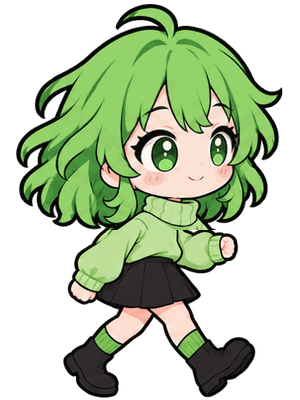
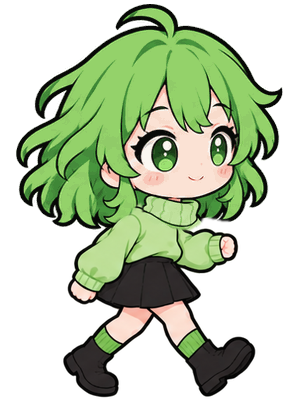
Soften pilot seams and add visible motion

diff --git a/src/renderer/chibi/pilot/idle-rig.js b/src/renderer/chibi/pilot/idle-rig.js
@@ -3,19 +3,26 @@
 (() => {
   const W = 239, H = 400;
   const head = [[0,0],[239,0],[239,212],[157,212],[150,190],[143,184],[96,184],[89,190],[81,212],[0,212]];
-  const leftTip = [[0,158],[58,158],[64,184],[76,212],[0,212]];
-  const rightTip = [[181,158],[239,158],[239,212],[163,212],[175,184]];
+  // Harakatdan kattaroq overlap: yuqori/ichki ildizda ikkala qatlam ham qoplab turadi.
+  const leftTip = [[-8,146],[64,146],[72,184],[84,218],[-8,218]];
+  const rightTip = [[175,146],[247,146],[247,218],[155,218],[167,184]];
+  const leftHole = [[-8,177],[46,177],[53,190],[64,218],[-8,218]];
+  const rightHole = [[193,177],[247,177],[247,218],[175,218],[186,190]];
   function polygon(ctx, points) {
     ctx.moveTo(...points[0]);
     for (const point of points.slice(1)) ctx.lineTo(...point);
     ctx.closePath();
+  }
+  function mask(points, blur = 1.5) {
+    const c = document.createElement('canvas'); c.width = W; c.height = H;
+    const ctx = c.getContext('2d'); ctx.filter = `blur(${blur}px)`;
+    ctx.fillStyle = '#fff'; ctx.beginPath(); polygon(ctx,points); ctx.fill(); return c;
   }
   function layer(image, drawMask) {
     const c = document.createElement('canvas'); c.width = W; c.height = H;
     const ctx = c.getContext('2d'); ctx.save(); drawMask(ctx);
     ctx.drawImage(image, 0, 0, W, H); ctx.restore(); return c;
   }
-  function headClip(ctx) { ctx.beginPath(); polygon(ctx, head); ctx.clip(); }
   class IdleRig {
     constructor(image) {
       if (image.naturalWidth !== W || image.naturalHeight !== H) throw new Error('Idle rig uchun original 239×400 stand.png kerak');
@@ -24,18 +31,28 @@
         ctx.beginPath(); ctx.rect(0,0,W,300); ctx.clip();
         ctx.beginPath(); ctx.rect(0,0,W,H); polygon(ctx,head); ctx.clip('evenodd');
       });
-      this.head = layer(image, ctx => {
-        headClip(ctx);
-        ctx.beginPath(); ctx.rect(0,0,W,H); polygon(ctx,leftTip); polygon(ctx,rightTip); ctx.clip('evenodd');
-      });
-      this.left = layer(image, ctx => { headClip(ctx); ctx.beginPath(); polygon(ctx,leftTip); ctx.clip(); });
-      this.right = layer(image, ctx => { headClip(ctx); ctx.beginPath(); polygon(ctx,rightTip); ctx.clip(); });
+      const headMask = mask(head, 1);
+      const softLayer = points => {
+        const c = layer(image, () => {}), ctx = c.getContext('2d');
+        ctx.globalCompositeOperation = 'destination-in';
+        ctx.drawImage(headMask,0,0);
+        if (points) ctx.drawImage(mask(points, 2.5),0,0);
+        ctx.globalCompositeOperation = 'source-over'; return c;
+      };
+      this.head = softLayer();
+      const headContext = this.head.getContext('2d');
+      headContext.globalCompositeOperation = 'destination-out';
+      headContext.drawImage(mask(leftHole,2.5),0,0);
+      headContext.drawImage(mask(rightHole,2.5),0,0);
+      headContext.globalCompositeOperation = 'source-over';
+      this.left = softLayer(leftTip);
+      this.right = softLayer(rightTip);
       this.original = image;
     }
     draw(ctx, seconds, x = 0, y = 0, width = W, height = H) {
       const phase = seconds * Math.PI * 2 / 3.2;
       const breath = (1 - Math.cos(phase)) / 2;
-      const rise = 1.4 * breath;
+      const rise = 3.5 * breath;
       ctx.save(); ctx.translate(x,y); ctx.scale(width/W,height/H);
       ctx.drawImage(this.lower,0,0);
       ctx.save(); ctx.translate(0,300); ctx.scale(1,1+rise/116); ctx.translate(0,-300);
@@ -43,14 +60,12 @@
       // Yoqa ostida kichik overlap: bosh ko'tarilganda shaffof yoriq ochilmaydi.
       ctx.drawImage(this.original,96,185,49,10,96,182,49,13);
       ctx.restore();
-      ctx.save(); ctx.translate(119.5,184-rise); ctx.rotate(Math.sin(phase)*0.006);
+      ctx.save(); ctx.translate(119.5,184-rise); ctx.rotate(Math.sin(phase)*0.015);
       ctx.translate(-119.5,-184);
-      // Ildizdagi overlap qatlam ajralishini yopadi; siluet uchlari mustaqil tebranadi.
-      ctx.save(); ctx.beginPath(); ctx.rect(53,158,16,55); ctx.rect(171,158,16,55); ctx.clip();
-      ctx.drawImage(this.original,0,0); ctx.restore();
+      // Feather maskalar keskin y=158 chokini almashtiradi; overlap harakatda ham qoladi.
       ctx.drawImage(this.head,0,0);
-      for (const [tip,px,angle] of [[this.left,58,Math.sin(phase+.6)*.014],
-        [this.right,181,Math.sin(phase-.6)*-.014]]) {
+      for (const [tip,px,angle] of [[this.left,58,Math.sin(phase+.6)*.035],
+        [this.right,181,Math.sin(phase-.6)*-.035]]) {
         ctx.save(); ctx.translate(px,158); ctx.rotate(angle); ctx.translate(-px,-158);
         ctx.drawImage(tip,0,0); ctx.restore();
       }

diff --git a/src/renderer/chibi/pilot/README.md b/src/renderer/chibi/pilot/README.md
@@ -1,19 +1,26 @@
 # 1.8.0 — sifat sinovi, integratsiya qilinmagan
 
-Shaxzod va Claude bilan A–D kelishilgan: qatlamli idle; avval 8 walk kadr / 10 fps; GIF bilan erta qaror; neutral-only animatsiya, boshqa ifodalarda eski poza + overlay. C bandi bo'yicha foydalanuvchi bahosi kutiladi. Runtime chibi.js/manifest/CSS/renderer o'zgarmagan.
+A–D kelishuvi: qatlamli idle; 8 walk kadr / 10 fps; erta GIF ko'rigi; neutral-only animatsiya, boshqa ifodalarda eski poza + overlay. d513816 review'dan keyin Shaxzod 'davom' dedi. Ushbu revision integratsiyadan OLDINGI 4 tuzatishni bajaradi; runtime chibi.js/manifest/CSS/renderer o'zgarmagan.
 
-## Manba va usul
-- Original manbalar: frames/stand.png (239×400), walk-a.png va walk-b.png; repo boshlang'ich holati 1ecb5b9 (1.7.0).
-- Idle: idle-rig.js original stand.png'ni canvas'da pastki qism/oyoq, tana, bosh, chap va o'ng soch uchlariga ajratadi. 3.2 s sikl; nafas 0–1.4 source px, bosh ±0.006 rad, uchlar ±0.014 rad. Yoqa/ildiz overlaplari yoriqlarni yopadi. Original rasm qayta chizilmagan. Ushbu modul taymer boshlamaydi; draw(ctx, seconds, x, y, width, height) qabul qiladi. Runtime'ga ulanmaguncha normal ilova uni yuklamaydi.
-- Walk: built-in image_gen'da 4×2 sakkiz fazali atlas. Aniq prompt va uch reference walk-prompt.json'da. Generatsiya exec-66826a8c-d2f0-43c3-bc2b-2933a5e05709.png; raw nusxa Codex generated_images'da qolgan, buildga kiritilmagan. Higgsfield, video va MaoMao resurslari ishlatilmagan.
-- Generatsiyada bosh/soch biroz farqlangani uchun barcha kadrda ORIGINAL walk-a.png'dan aynan bir xil neytral bosh ishlatilgan: crop (0,0,271,228), o'lcham o'zgarmasdan (14,2) da. Yangi atlasdagi tana/qo'l/oyoq fazalari qoldirilgan (384×512 katakdan y=288 dan past). Tana 300×174 qilib, (0,224) da; yoqa overlap bilan. Bu crossfade yoki takrorlangan kadrlar emas; 8 tana fazasi alohida.
-- Natija: 8 lossless WebP + alfa, har biri 300×400; opacity>24 bo'yicha tayanch chiziq y=398. Jami 501 504 bayt. Walk bitmaplari nazariy 3 840 000 bayt (3.66 MiB). Idle 5 vaqtinchalik canvas uchun nazariy 1 912 000 bayt (1.82 MiB); GPU/renderer overhead bu hisobga kirmaydi. Idle uchun qo'shimcha rasm fayli yo'q.
+## Manba va idle
+- Original stand.png (239×400), walk-a.png va walk-b.png; boshlang'ich repo 1ecb5b9, birinchi pilot d513816.
+- idle-rig.js: original rasm pastki qism/oyoq, tana, bosh va ikki soch uchiga ajratiladi. Yangi rasm generatsiyasi yo'q; draw(ctx,seconds,x,y,width,height) taymer yaratmaydi.
+- Soch tip maskalari yuqorida y=146 dan yumshoq boshlanadi; boshdagi ichki kesim y=177 dan. Ichki ildiz bo'yicha ham overlap bor. Maskalarning 2.5 px blur'i faqat alfaga qo'llanadi; original rang piksellari xiralashtirilmaydi. Eski y=158 qattiq kesim va to'g'ri to'rtburchak 'patch' olib tashlandi.
+- Harakat 2.5× oshirildi: nafas 0–3.5 source px, bosh ±0.015 rad, soch uchlari ±0.035 rad. 3.2 s sikl. 180 px canvasda nafasning peak siljishi taxminan 1.5 px. Yoqa overlap'i saqlandi; oyoqlar statik qatlamda.
+- 5 saqlanadigan layer canvas nazariy 1 912 000 bayt (1.82 MiB); maskalar faqat konstruktor vaqtida tayyorlanadi. GPU/process overhead va CPU keyingi integratsiyada o'lchanadi.
 
-## Sifat ko'rigi
-- Alohida Electron oynasida old idle/qatlamli idle va eski 2 kadrli yurish/yangi 8 kadrli yurish yonma-yon chizildi. 64 render kadr, 20 fps GIF, 3.2 s idle sikl; walk 10 fps. Qadam ko'rsatkichi GIF'da bor. Eski walk haqiqiy 4 fps, yangi 10 fps — taqqoslashda bir xil ekran masshtabi va tayanch chiziq.
-- 8 fazaning pixel hash'i turlicha; yuqori neytral boshning ko'rinadigan piksellari hammasida aynan teng; barcha oyoq baseline teng; idle oyoq hududi 64 kadrda o'zgarmaydi. WebP'ning to'liq shaffof piksellaridagi ko'rinmas RGB kodlash farqlari bahoga kiritilmagan.
-- Electron konsoli toza. Siluet/yoqa/idle fazalaridan suratlar ko'z bilan tekshirildi. CPU/RAM benchmark va lazy/all-decode tanlovi hali bajarilmagan — C sifat qaroridan keyingi integratsiya bosqichi.
-- Yakuniy review GIF'lar Codex visualizations/2026/10/15/01a13ddf-7f4b-7ba0-b41c-5c9bd0801c9f/chibi-180-quality/ ichida: comparison.gif, idle.gif, walk.gif. Ular foydalanuvchiga topshiriladigan review artifactlari; vaqtinchalik test script/profil/capture PNG'lari tizim Temp'ida bo'ldi va o'chirildi.
+## Walk manbasi va qayta ishlov
+- Birinchi pilotdagi AYNI 4×2 atlas: built-in image_gen exec-66826a8c-d2f0-43c3-bc2b-2933a5e05709.png. Prompt va references walk-prompt.json'da. Yangi generatsiya, Higgsfield, video, MaoMao resurslari yo'q.
+- Neytral bosh original walk-a.png'dan olinadi; y=228 da to'g'ri qirqish YO'Q. walk.json headContour soch uchlari va yoqa chizig'ini kuzatadi; Gaussian radius 1 px bilan taxminan 2–3 px yumshoq alfa o'tishi. Tana raw atlasning to'liq bo'yidan saqlanib, ayni konturdan 5 px yuqoriga siljitilgan complement mask bilan bosh/sochdan ajratiladi. Body mask butun canvas kengligini qoplaydi: eski generatsiya sochidan chetda parcha qolmaydi. Yoqa/kofta konturi overlap ichida tutashadi.
+- Bosh x=14, y=2 + [2,0,-2,0,2,0,-2,0] source px. Contact 1/5 pastda, passing 3/7 yuqorida. 4 source px peak farq 176/400 masshtabda 1.76 ekran px. Tana/oyoq ko'tarilmaydi.
+- 8 distinct lossless WebP, 300×400, alfa; oyoq baseline (opacity>24) hammasida y=398. Jami 540 572 bayt. Bitmap nazariy 3 840 000 bayt (3.66 MiB). Eski pilot 501 504 bayt edi.
 
-## Keyingi qadam — faqat C tasdig'idan keyin
-Qabul qilingan assetlarni runtime slots'ga ulash, neutral-only fallback, CSS ikki marta harakatini o'chirish, yashirilganda timer to'xtashi va decode strategiyasini o'lchash. Mavjud ifodalar/pozalar uchun regressiya sinovi. Bu sifat sinovi 1.8.0 tayyor degani emas.
+## Tekshiruv va GIF
+- Alohida Electron oynasida d513816 va yangi revision bir xil vaqt/180px ko'rinishda yonma-yon: 64 vaqt nuqtasi, 20 fps GIF, 3.2 s. Walk har ikkala variantda 10 fps. Konsol xatosi yo'q.
+- Soch ildizi coverage audit: original alpha>240 maskasi 9×9 MinFilter bilan 4 px ichkariga olinadi; ROI y=148..183, x<80 yoki x>=159; rendered alpha<200 sanaladi. Eski 64 kadrda max65 (t0=11, t1.6=32), yangi hammasida0. Bu review'dagi 89 soni bilan bir xil algoritm deb ko'rsatilmaydi. Shu eroded ichki maskada yangi alpha<24 piksel ham0.
+- Idle y>=310 oyoq hududi 64 kadrda aynan teng. Walk tepasi [6,4,2,4,6,4,2,4], baseline398, barcha 8 faza distinct. Kontur/yoqa/soch uchlari source va ekran o'lchamida ko'z bilan ko'rildi. JS sintaksis/git diff --check o'tdi.
+- Yangi review artifactlar: Codex visualizations/2026/10/15/01a13ddf-7f4b-7ba0-b41c-5c9bd0801c9f/chibi-180-revision2/{comparison,idle,walk}.gif. Umumiy 256 rangli palitra ishlatilgan, har GIF 3200 ms. Oldingi GIF'lar chibi-180-quality papkasida saqlangan.
+- Sinov script/profil/capture/metrics faqat tizim Temp'ida yaratildi va yakunda o'chirildi. Review GIF'lar foydalanuvchiga topshiriladigan saqlanadigan artifactlar.
+
+## Keyingi qadam
+Sequence integratsiyasi, neutral-only fallback, CSS takroriy harakatini o'chirish, yashirilganda taymer to'xtashi, decode strategiyasi va CPU/RAM o'lchovi. Bu revision sifat tuzatishidir, hali 1.8.0 runtime/release emas.

diff --git a/WORKLOG.md b/WORKLOG.md
@@ -3,6 +3,16 @@
 Claude va Codex shu yerga yozadi. Yangi yozuv **eng yuqoriga** qo'shiladi.
 Qoidalar: [AGENTS.md](AGENTS.md).
 
+## 2026-10-15 · Codex · d513816 review: to'rtta sifat tuzatishi
+- Shaxzod 'davom' dedi, Claude integratsiyadan oldin 4 tuzatish so'radi. Fayllar: chibi/pilot/idle-rig.js, 8 walk WebP, walk.json/walk-prompt.json, README'lar. Runtime va eski personajlar o'zgarmadi.
+- Walk to'g'ri y228 kesimi o'rniga soch/yoqa konturi; 2–3 px yumshoq alfa va 5 px tana overlap. To'liq generated torso saqlandi, butun kenglikdagi body complement mask chetdagi eski soch parchalarini ham olib tashlaydi. Yangi rasm yaratilmadi, ayni raw atlas va original walk-a.png.
+- Idle: y158 qattiq soch kesimi o'rniga yumshoq maskalar (tip y146, ichki cut y177), keng overlap; nafas/bosh/soch amplitudalari 2.5×. Nafas 0–3.5 source px (~1.5 screen px), bosh .015 rad, soch .035 rad. Oyoqlar statik.
+- Walk bosh bob [2,0,-2,0,2,0,-2,0] source px: contact past, passing yuqori, ekranda peak farq ~1.76 px. 8 lossless300×400 WebP jami540572 bayt; baseline398 saqlandi.
+- Tekshirildi: Electron'da old/yangi 64 vaqt nuqtasi, konsol toza, source/180px screenshotlar ko'z bilan. Yangi ildiz coverage auditi max0 (eski max65); t0 va t1.6 yangi0. Bu Claude 89 hisobining aynan nusxasi emas — algoritm pilot/README'da. Ichki alpha<24 yangi0; idle oyoq hududi barcha64 kadrda teng. 8 walk faza distinct, topY6/4/2/4/6/4/2/4, baseline398. Sintaksis va diff --check o'tdi.
+- GIF'lar: Codex visualizations/.../chibi-180-revision2/comparison.gif, idle.gif, walk.gif; 20fps/3.2s. Eski/yangi yonma-yon. Yakuniy review artifactlari saqlandi; sinov script/profil/capture/metrics tizim Temp'ida bo'ldi va o'chirildi.
+- Keyingi: runtime sequence integratsiyasi va resurs o'lchovi. Ushbu commit faqat so'ralgan sifat tuzatishlari/GIF; build, versiya, push/release yo'q.
+- Commit: shu yozuv bilan `Soften pilot seams and add visible motion`.
+
 ## 2026-10-15 · Codex · 1.8.0 A–D kelishuvi va sifat sinovi tayyor
 - Shaxzod orqali Claude tuzatishlari va Codex roziligi qabul qilindi.
 - A: idle stand.png qatlamlaridan (soch uchlari, bosh, tana), canvas'da protsedural nafas/soch tebranishi/bosh qiyshayishi. Alohida image_gen idle kadrlar yo'q; yoriq, yoqa, oyoq chizig'i tekshiriladi; resurs sarfi keyingi integratsiyada o'lchanadi.
@@ -65,7 +75,7 @@ Qoidalar: [AGENTS.md](AGENTS.md).
 - Commit: ushbu yozuv bilan `git log` dagi `Improve chibi frames, turning and animation`.
 
 ## Hozir band
-_Hech kim._ 1.8.0 sifat GIF'lari tayyor; kelishilgan C bandi bo'yicha Shaxzod bahosi kutiladi, runtime integratsiyasi boshlanmagan.
+_Hech kim._ Pilot review bo'yicha 4 tuzatish va yangi GIF tayyor; runtime integratsiyasi keyingi bosqich.
 
 ## Kontrakt: main → renderer kanallari
 Ikki tomon faqat shu orqali bog'lanadi. Kanal yoki ma'lumot shakli o'zgarsa, avval ikkinchi agent bilan Shaxzod orqali kelishiladi.

diff --git a/src/renderer/chibi/README.md b/src/renderer/chibi/README.md
@@ -23,3 +23,7 @@ Animatsiya: faqat yurishda 250 ms kadr almashuvi; neytral old ko'rinishda 3.2–
 ## 1.8.0 sifat sinovi
 
 Claude bilan A–D kelishuvi asosida qatlamli idle va 8 kadr / 10 fps walk pilot tayyorlandi. Hali ilovaga ulanmagan; GIF ko‘rigidan keyingi C qarori kutiladi. Manba, aniq prompt, qatlamlar va tekshiruvlar: [pilot/README.md](pilot/README.md).
+
+## 1.8.0 pilot review tuzatishlari
+
+Shaxzod davom dedi; integratsiya oldidan walk soch/yoqa konturi 2–3px feather + overlap bilan, idle soch ildizi yumshoq maska/overlap bilan tuzatildi. Walk boshiga fazaga mos tebranish, idle amplitudalariga 2.5× qo‘shildi. Yangi rasm generatsiyasi yo‘q. Yangi GIF’lar chibi-180-revision2 artifact papkasida. Aniq parametr/tekshiruvlar [pilot/README.md](pilot/README.md) va walk.json’da. Runtime integratsiyasi hali bajarilmadi.
